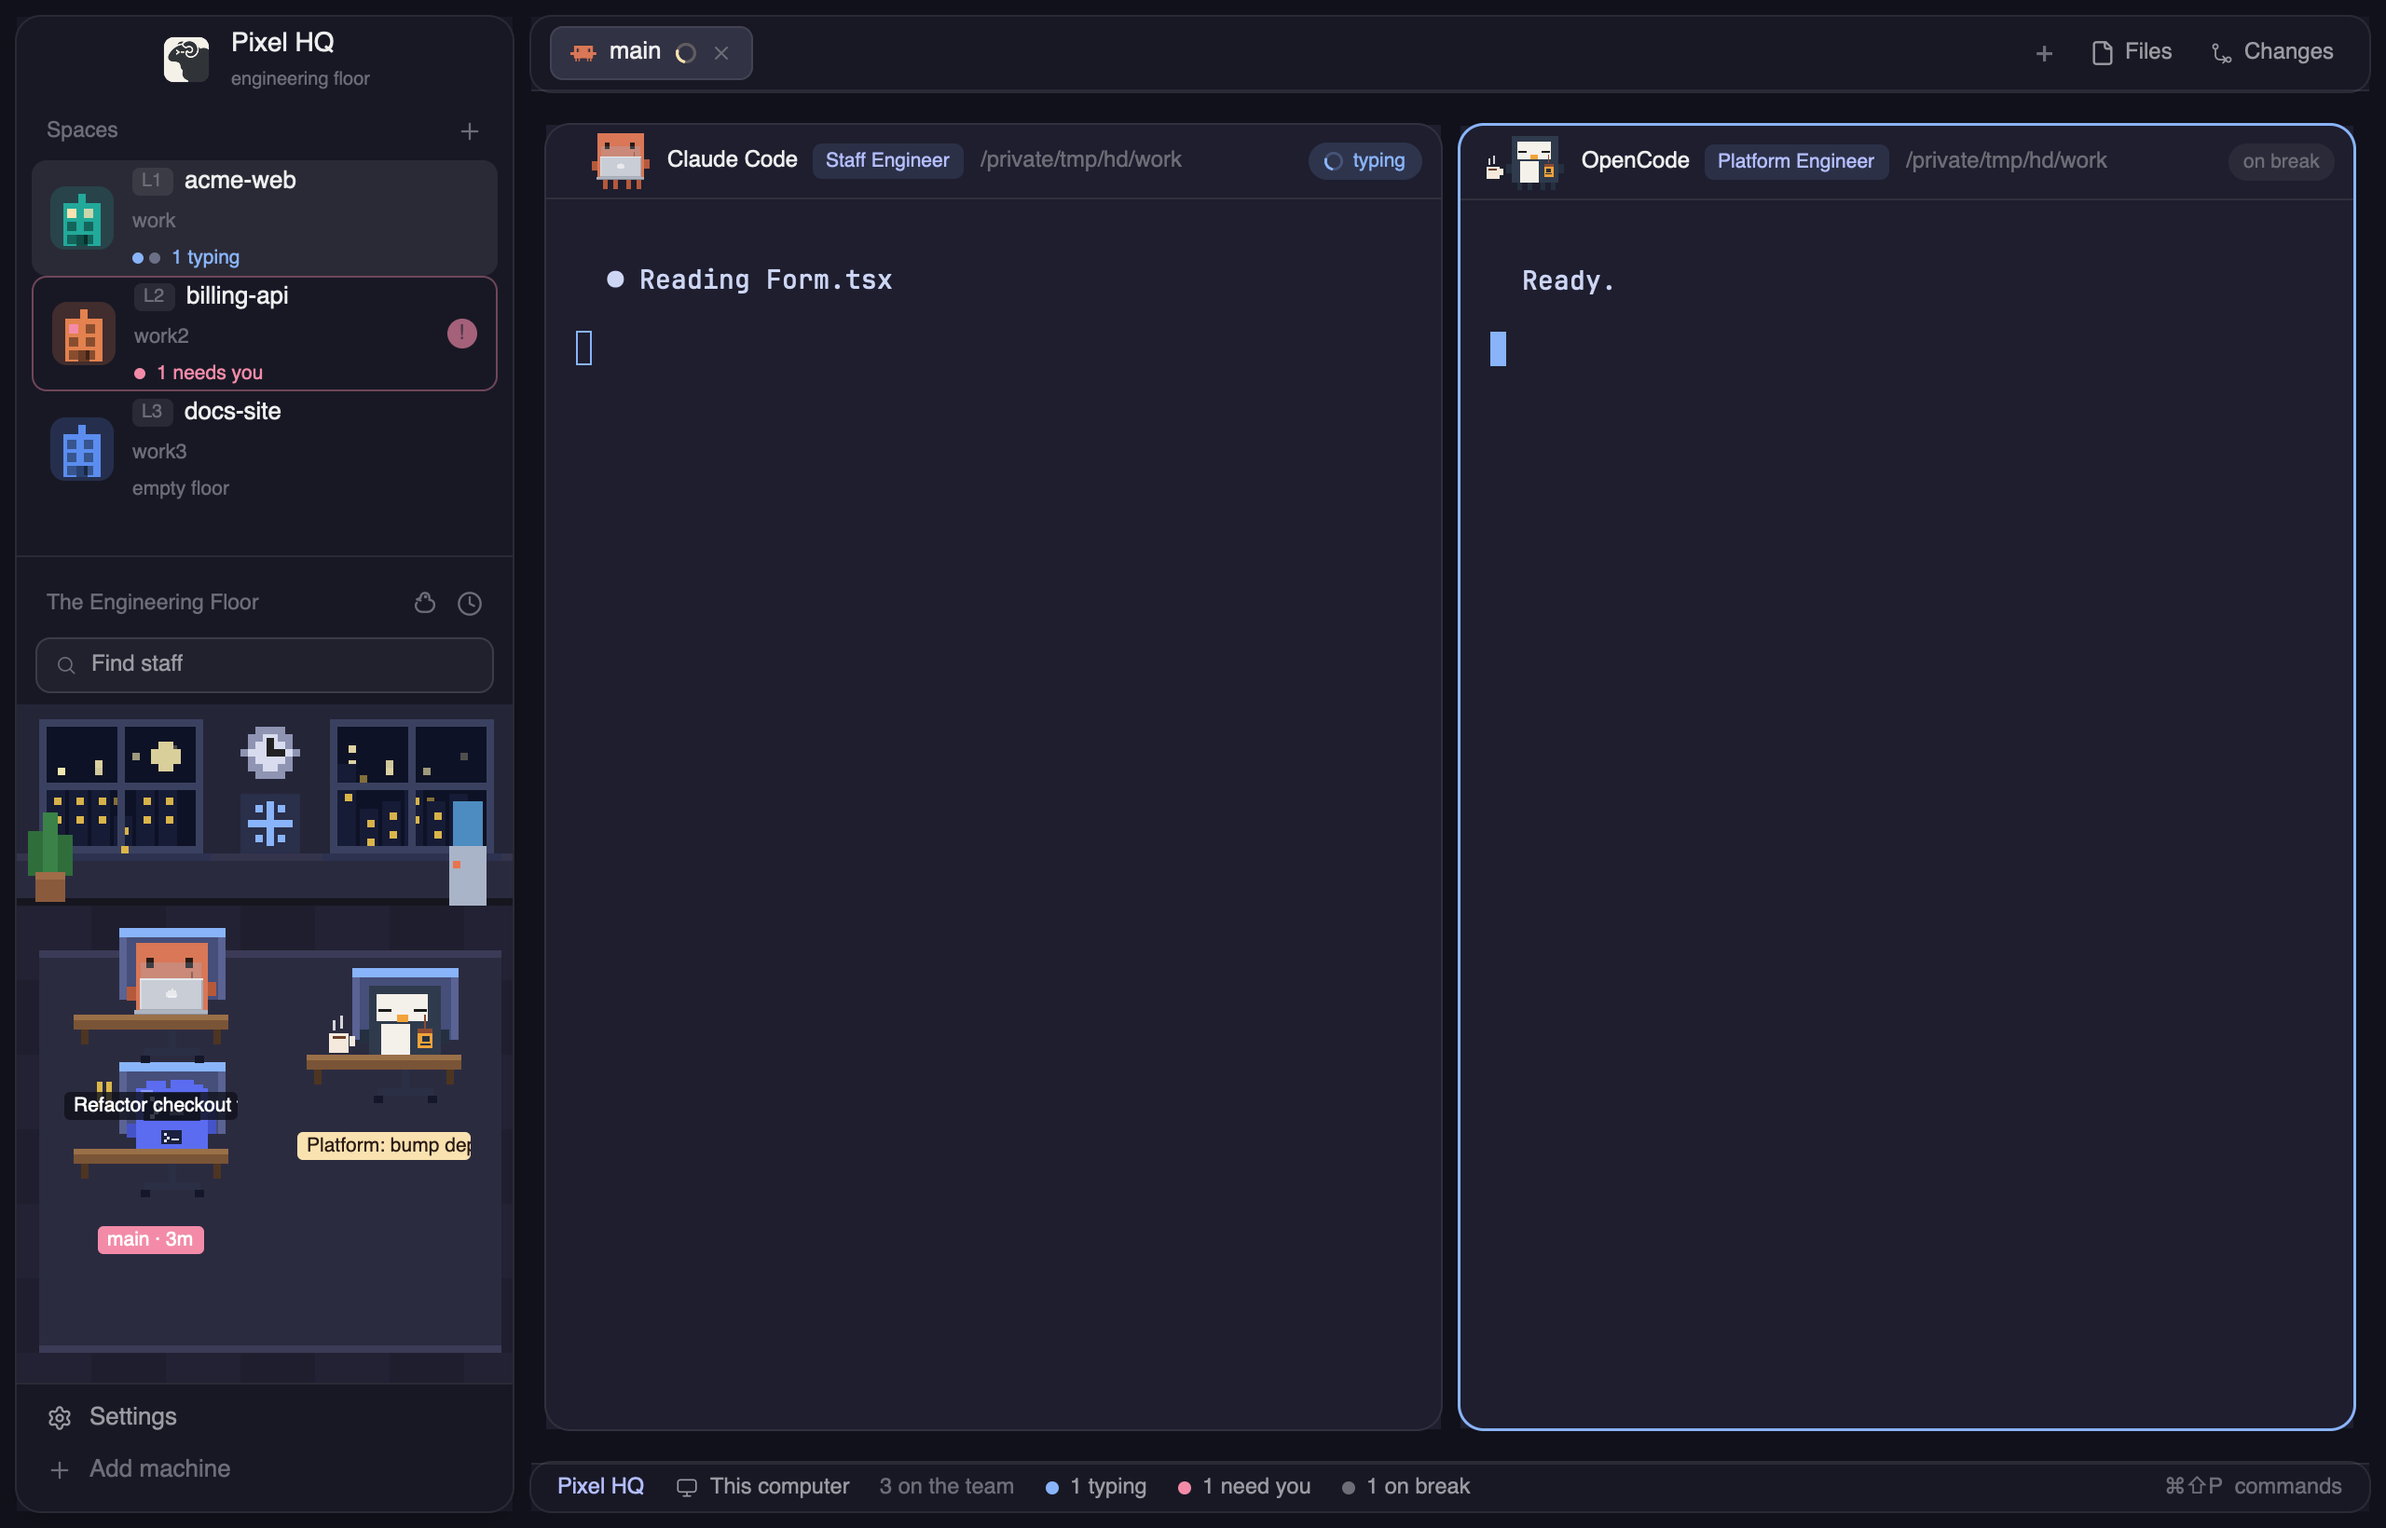
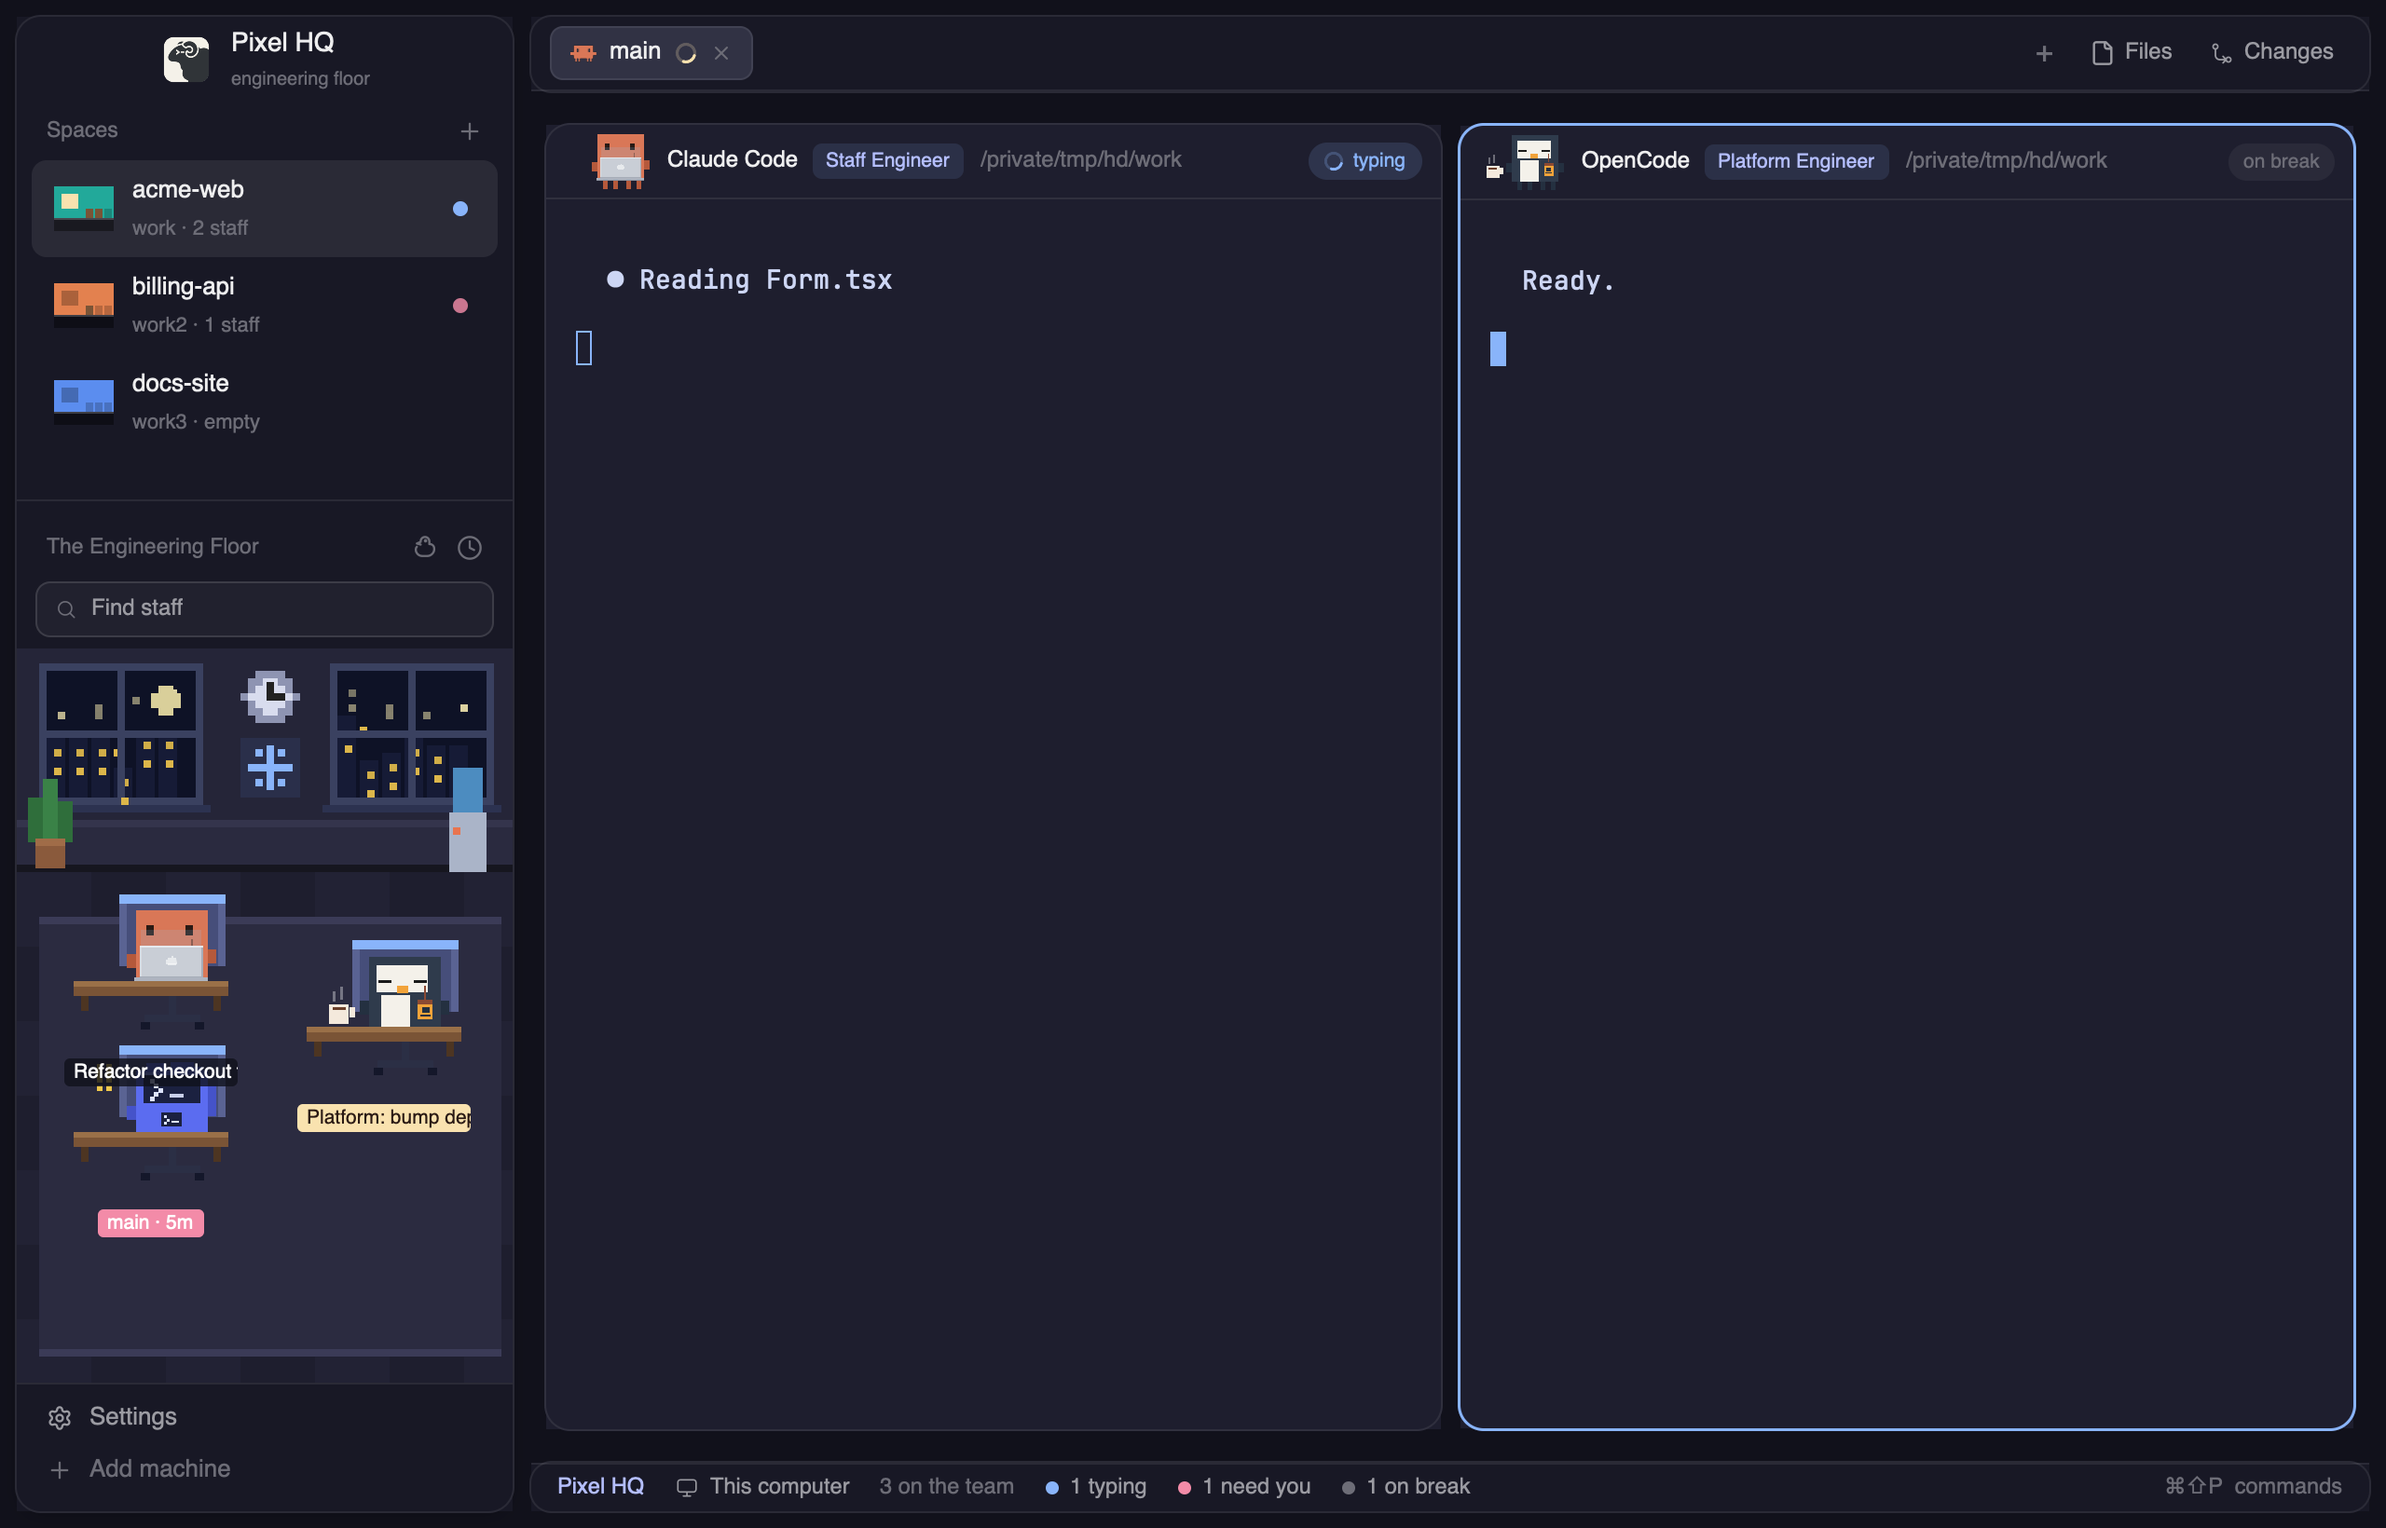
Floors: each space is one floor (a pixel room), simpler cards; refreshed screenshot and demo

Changed region(s): [[0.0, 0.311, 0.2188, 0.8396], [0.0, 0.0933, 0.125, 0.311], [0.1875, 0.1866, 0.2188, 0.2488]]

diff --git a/mods/company-spaces/main.js b/mods/company-spaces/main.js
@@ -25,8 +25,8 @@ function place(s, ps) {
   const tabs = new Set((s.tabs ?? []).map((c) => c.id));
   return ps.find((p) => tabs.has(p.tab) && p.cwd)?.cwd || s.folder;
 }
-// A space is a floor card: building, floor number and name, branch, and one dot per agent working there.
-const CARD = 62;
+// A space is one floor: a small pixel room, the name, the branch and staff count, and a status dot.
+const CARD = 52;
 const rowHeight = ({ tree }) => (tree ? 28 : CARD);
 const RAIL_CELL = 32;
 const railCell = (el) => h_flex().flex_none().justify_center().child(el);
@@ -386,44 +386,35 @@ export default class Spaces extends View {
       .when(g.behind > 0, (el) => el.child(div().flex_none().text_color(t.ansi1).child(`\u2193${g.behind}`)));
   }
 
-  // The floor card for a top-level space.
+  // The floor card for a top-level space: a small pixel room (one floor), the name, one dim line, one status dot.
   card(w, i, g, fill, t) {
     const crew = this.crew?.get(w.id) ?? [];
     const count = (k) => crew.filter((a) => a.status === k).length;
     const blocked = count("blocked"), working = count("working");
-    const lit = Math.min(6, crew.length);
-    const DOT = { working: "#89b4fa", blocked: "#f38ba8", done: "#a6e3a1", idle: "#6c7086" };
-    // A pixel building tinted with the space's color; a lit window per agent (pink when one needs you).
-    const windows = [0, 1, 2, 3, 4, 5].map((k) => {
-      const on = k < lit;
-      const el = div().absolute().left(9 + (k % 2) * 9).top(12 + Math.floor(k / 2) * 7).w(5).h(5).bg(on ? (blocked && k === 0 ? "#f38ba8" : "#f9e2af") : "#00000066");
-      return on && working > 0 ? el.loop("opacity", { from: 0.55, to: 1, period: 1300 + k * 350, easing: "ease-in-out" }) : el;
-    });
-    const building = div().relative().size(34).flex_none().rounded(8).bg(fill + "33")
-      .child(div().absolute().left(15).top(4).w(4).h(5).bg(fill))
-      .child(div().absolute().left(7).top(9).w(20).h(23).bg(fill))
-      .children(windows)
-      .child(div().absolute().left(14).top(26).w(6).h(6).bg("#00000088"));
+    // One floor of the building, seen from the side: wall in the space's color, a dark floor, a window
+    // (lit while someone is typing) and a small desk for each agent, up to three.
+    const room = div().relative().w(32).h(24).flex_none().rounded(3).overflow_hidden()
+      .child(div().absolute().left(0).top(0).w(32).h(17).bg(fill))
+      .child(div().absolute().left(0).top(17).w(32).h(7).bg("#00000066"))
+      .child(div().absolute().left(0).top(17).w(32).h(1).bg("#ffffff33"))
+      .child(div().absolute().left(4).top(4).w(9).h(8).bg(working > 0 ? "#f9e2af" : "#00000040"))
+      .children([0, 1, 2].map((k) => div().absolute().left(17 + k * 5).top(12).w(4).h(5).bg(k < crew.length ? "#7a5436" : "#00000033")));
     const raw = g?.branch ?? null;
-    const repo = g && g.name && g.name.toLowerCase() !== w.name.toLowerCase() ? g.name : "";
-    const where = [repo, raw].filter(Boolean).join(" \u00b7 ") || base(w.folder ?? "");
-    const staff = !crew.length ? "empty floor" : blocked ? `${blocked} needs you` : working ? `${working} typing` : `${crew.length} on break`;
-    const staffColor = blocked ? "#f38ba8" : working ? "#89b4fa" : t.dim;
-    return h_flex().size_full().gap(10).items_center().px(2)
-      .child(building)
-      .child(v_flex().flex_1().min_w(0).gap(2)
-        .child(h_flex().gap(6).items_center()
-          .child(div().flex_none().px(5).h(15).flex().items_center().rounded(4).bg("#ffffff14").text_size(10).font_semibold().text_color(t.dim).child(`L${i + 1}`))
-          .child(div().min_w(0).truncate().font_semibold().text_color(t.foreground).child(w.name)))
+    const place = raw ?? base(w.folder ?? "");
+    const staff = crew.length ? `${crew.length} staff` : "empty";
+    const dot = blocked > 0 ? "#f38ba8" : working > 0 ? "#89b4fa" : null;
+    return h_flex().size_full().gap(10).items_center().px(4)
+      .child(room)
+      .child(v_flex().flex_1().min_w(0).gap(1)
+        .child(div().min_w(0).truncate().font_semibold().text_color(t.foreground).child(w.name))
         .child(h_flex().gap(5).items_center().text_size(11).text_color(t.dim)
-          .child(div().min_w(0).truncate().child(where))
+          .child(div().min_w(0).truncate().child(`${place} \u00b7 ${staff}`))
           .when(g?.ahead > 0, (el) => el.child(div().flex_none().text_color(t.ansi2).child(`\u2191${g.ahead}`)))
-          .when(g?.behind > 0, (el) => el.child(div().flex_none().text_color(t.ansi1).child(`\u2193${g.behind}`))))
-        .child(h_flex().gap(3).items_center()
-          .children(crew.slice(0, 8).map((a) => div().size(6).flex_none().rounded(3).bg(DOT[a.status] ?? DOT.idle)))
-          .child(div().ml(crew.length ? 3 : 0).text_size(10.5).text_color(staffColor).child(staff))))
-      .when(blocked > 0, (el) => el.child(div().flex_none().size(16).rounded(8).bg("#f38ba8").flex().items_center().justify_center().text_size(11).font_bold().text_color("#1e1e2e").child("!")
-        .loop("opacity", { from: 0.45, to: 1, period: 700, easing: "linear" })));
+          .when(g?.behind > 0, (el) => el.child(div().flex_none().text_color(t.ansi1).child(`\u2193${g.behind}`)))))
+      .when(Boolean(dot), (el) => {
+        const d = div().flex_none().size(8).rounded(4).bg(dot).mr(4);
+        return el.child(blocked > 0 ? d.loop("opacity", { from: 0.4, to: 1, period: 900, easing: "ease-in-out" }) : d);
+      });
   }
 
   row({ w, i, g, tree }, t) {
@@ -442,7 +433,6 @@ export default class Spaces extends View {
       .rounded(8)
       .when(on, (el) => el.bg(t.selected))
       .when(!on, (el) => el.hover((s) => s.bg(t.hover)))
-      .when(!tree && (this.crew?.get(w.id) ?? []).some((a) => a.status === "blocked"), (el) => el.border_1().border_color("#f38ba866"))
       .when(this.pressed === w.id && this.over !== w.id, (el) => el.opacity(0.5))
       .when(this.pressed !== null && this.over === w.id && this.pressed !== w.id, (el) => el.child(
         div().absolute().left(0).right(0).h(2).bg(t.accent)

diff --git a/RECIPE.md b/RECIPE.md
@@ -17,32 +17,17 @@ tabs and terminals on the right, a status bar at the bottom.
 
 - **Brand block** (top of the sidebar, 46px): the Herdr logo (`frame/welcome/herdr.png`, 30px, rounded), "Pixel HQ"
   in semibold 14px and under it "engineering floor" in dim 10px. Search and sidebar-toggle buttons on the right.
-- **Floors** (the spaces block, header "Spaces" with a + button): each top-level space is a 62px card, rounded 8, with a 34px
-  building tile, then three lines.
-  - Tile: a rounded square tinted with the space's color (the one Herdr stores in `space.colors`, 20% opacity), a 20x23 building body in the
-    full color with a 4x5 antenna, six 5px windows in two columns (dark by default; one lit amber per agent in the space, up to six;
-    the first goes pink when an agent needs you; lit windows twinkle while someone is typing) and a dark door.
-  - Line 1: a small `L1`, `L2`... chip (floor number = the space's index + 1) and the space name in semibold.
-  - Line 2: the repo (only if its name differs from the space) and the git branch, with green up and red down arrows for ahead and behind.
-    Without git it shows the folder name.
-  - Line 3: one 6px dot per agent (blue typing, pink needs you, green shipped, grey idle) and a word: "empty floor", "N typing", "N on break" or "N needs you".
-  - A floor with an agent that needs you gets a 1px pink outline and a 16px pink `!` badge at its right edge that blinks.
-  - Worktree spaces keep the shipped compact tree rows; drag to reorder, right-click menu and the collapsed rail work as in the shipped mod.
-  - The mod resizes its own block (`layout.resize`) to `31 + floors x 64 + 20` px, between 100 and 380, plus 56 per remote machine,
-    so the office gets the rest; more floors than fit scroll. The layout file starts it at 104px.
-- **The Engineering Floor** (the agents block, bottom of the sidebar): a pixel-art office, all on a 4px grid.
-  - Back wall: two windows onto a night city (lit windows twinkle), a wall clock, a small blue
-    asterisk sign between them, a plant on the left, a water cooler on the right.
-  - Floor: dark tiles and a carpet with a lighter border.
-  - Each agent sits at a wooden desk (a drawer-less top with two legs) on a tall blue-violet office chair with
-    a blue headrest strip, a pole, a star base and wheels. A small nameplate under the desk shows the
-    agent's tab name and how long it has been in this state; the focused agent's plate is yellow,
-    one that needs you is rust-red.
-  - Desks stand in two staggered columns, 6 slots, then wrap with a small offset.
-  - Drag a pet to move its desk anywhere in the room; positions are remembered. Click (no drag)
-    focuses that agent. Right-click a pet to change its figures; right-click empty floor to reset positions.
-- **Pane headers** (40px): the agent's pet (30px tall), its name, a job-title chip, the folder, and a
-  status chip on the right. Hovering shows split, zoom and close buttons.
+- **Floors** (the spaces block, header "Spaces" with a + button): each top-level space is one floor, a 52px card (rounded 8, no outline).
+  - Tile (32x24, rounded 3): a side view of a single room. Wall in the space's color (the one Herdr stores in `space.colors`, top 17px),
+    a dark floor strip (bottom 7px) with a 1px light line on top, a 9x8 window at (4,4) that is amber while an agent in the space is typing and
+    dark otherwise, and one small brown 4x5 desk for each agent in the space, up to three (empty slots are a faint dark square).
+  - Line 1: the space name, semibold. Line 2, dim 11px: the git branch (or the folder name without git), a dot, and "N staff" or "empty",
+    then green up and red down arrows for ahead and behind.
+  - Right edge: one 8px dot. Blue while someone is typing, pink and softly pulsing when an agent needs you, nothing otherwise.
+  - The active floor gets the shipped selected background. Worktree spaces keep the shipped compact tree rows; drag to reorder, the right-click menu
+    and the collapsed rail work as in the shipped mod.
+  - The mod resizes its own block (`layout.resize`) to `31 + floors x 54 + 20` px, between 100 and 380, plus 56 per remote machine, so the
+    office gets the rest; more floors than fit scroll. The layout file starts it at 104px.
 - **Find staff** (above the room, 30px, 10px side margins): a rounded search field with a magnifier icon and the placeholder "Find staff". While there is text it shows "matches/total" and an x button. A pet matches when every word of the query appears in its tab or title text, space name, program name, job title (staff engineer, code reviewer, platform engineer) or a status word (typing/working, idle/break, shipped/done, needs you/blocked). Pets that do not match drop to 14% opacity and matches get a yellow nameplate; Enter focuses the first match.
 - **Status bar** (28px): "Pixel HQ" in lavender, machine, git branch, "N on the team", then colored dots:
   "typing", "need you", "shipped", "on break".

diff --git a/README.md b/README.md
@@ -21,7 +21,7 @@
 
 ## What you get
 
-- **Every space is a floor.** The Spaces list becomes floor cards: a pixel building tinted with the space's color, a floor number (`L1`, `L2`…), the name, the git branch (with ahead/behind), and one dot per agent working there. Lit windows show how many agents are in; a floor with an agent that needs you gets a pink outline and a blinking `!`. The block is only as tall as its floors, so the office below gets the rest of the sidebar.
+- **Every space is a floor.** The Spaces list becomes floor cards: a small pixel room tinted with the space's color (a window that lights up while someone is typing, one desk per agent), the name, `branch · N staff`, and a status dot: blue when someone is typing, pink when an agent needs you. The block is only as tall as its floors, so the office below gets the rest of the sidebar.
 - **An office in your sidebar.** Every agent is a pixel pet sitting on an office chair at its own desk, with a MacBook.
   Drag a pet to move its desk anywhere; click to jump to that agent.
 - **Pets that live their day.** When an agent goes idle its pet mostly stays at the desk; every so often one steps out beside it for a few seconds and comes right back. When work arrives it types. When an agent ships, pixel confetti rains over its desk until you look.
